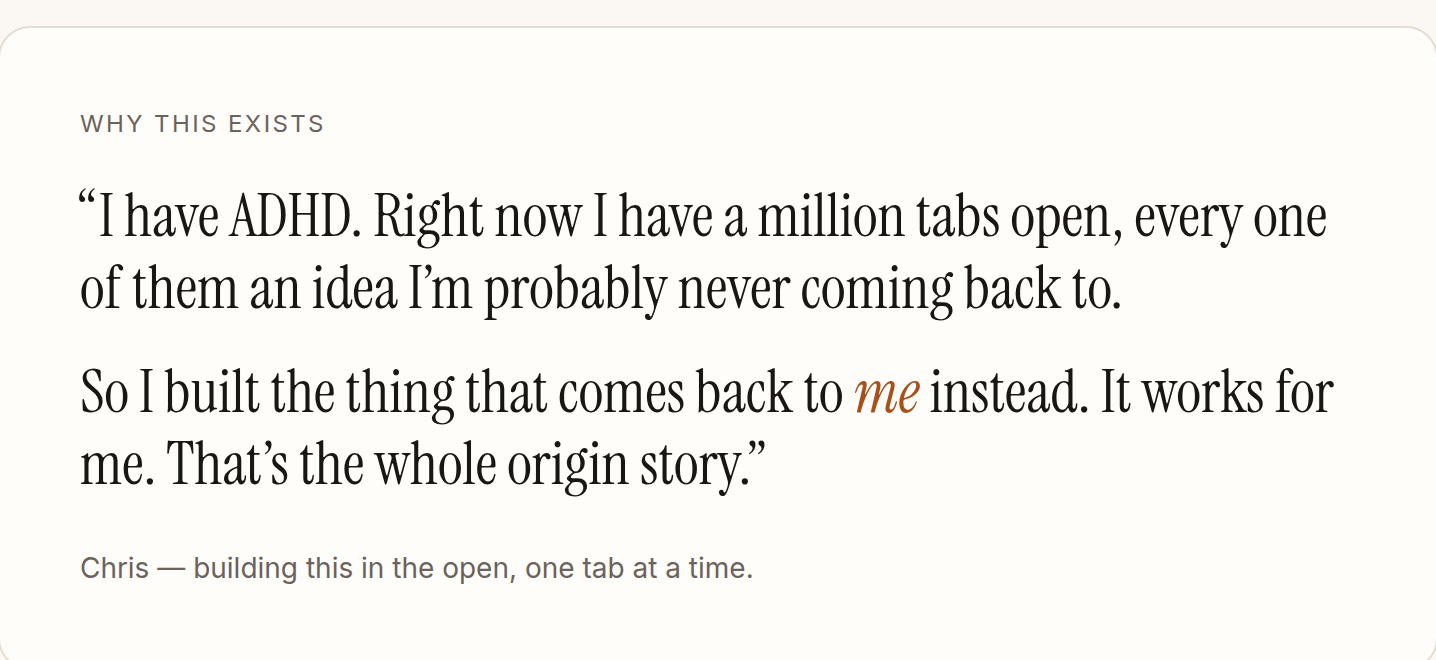
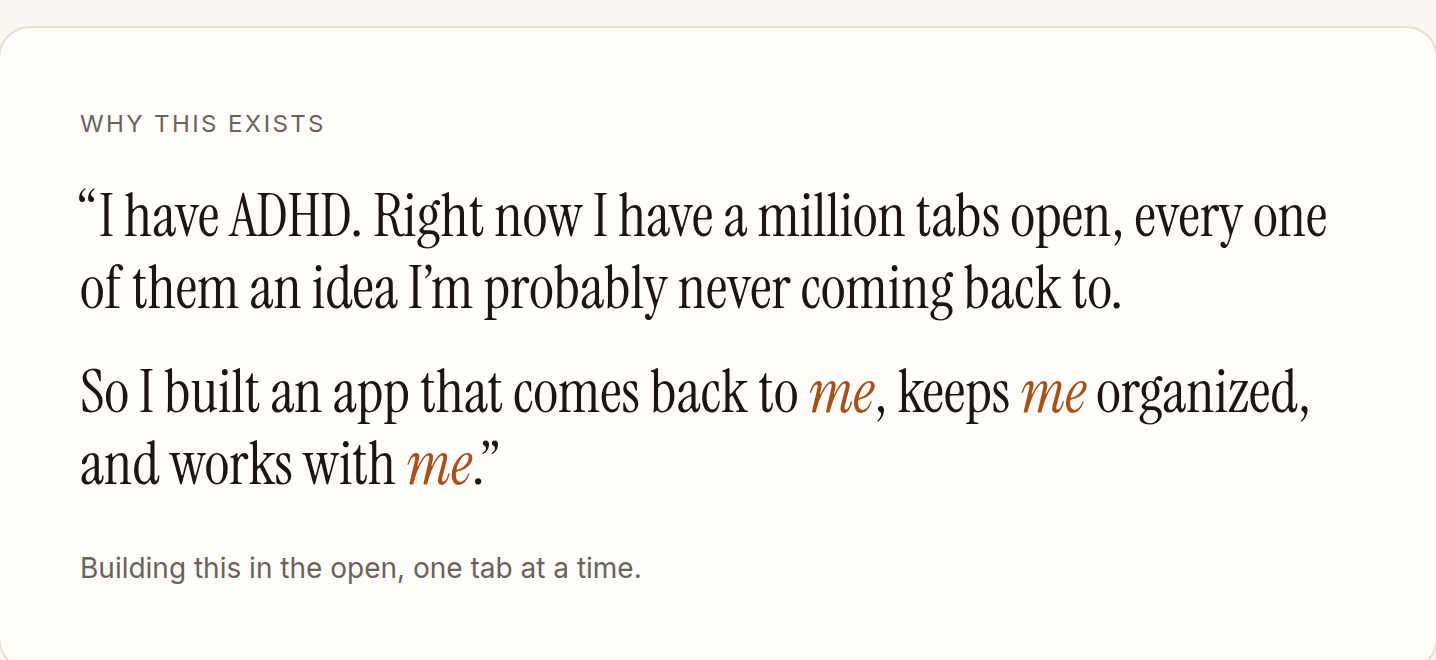
Use the founder's own words, drop the byline, restore the AI phrase
Founder quote is now his rewrite verbatim — "So I built an app that comes back
to me, keeps me organized, and works with me" — with each "me" marked
individually in clay so the rhythm of the three lands visually. Byline no longer
carries a name, at his request; it reads "Building this in the open, one tab at
a time."

Restores "once the AI has finished it." to the headline rotation. It was left
out earlier on the grounds that it promises execution rather than extraction.
That objection was right about the product as it stands and wrong about intent:
completing the task, a research task in particular, is the actual direction. It
is a stronger differentiator than the reminder loop, since neither competitor
attempts execution at all. Opened #14 for the decisions it forces — an agentic
run breaks the per-transform cost meter, does not fit the Transform table, and
needs a review step before anything is done on the user's behalf.

The phrase is aspirational and currently untrue, which promotes the beta framing
in #12 from a nice-to-have to a prerequisite before this page meets traffic.

"An ADHD tool, built by someone who needs it" stays as the hero eyebrow and now
also serves as the meta description and og:title, so it does SEO and
share-preview work without being repeated visually on the page.

Refs #8, #12, #14

Changed region(s): [[0.1838, 0.5455, 0.9499, 0.6364], [0.0306, 0.6667, 0.5515, 0.7576], [0.0613, 0.8485, 0.5209, 0.8788]]

diff --git a/apps/web/src/pages/LandingPage.tsx b/apps/web/src/pages/LandingPage.tsx
@@ -100,7 +100,7 @@ function Hero() {
                   'right before dinner.',
                   'when you can act on it.',
                   'the moment it matters.',
-                  'once it&rsquo;s broken into steps.',
+                  'once the AI has finished it.',
                 ]}
               />
             </span>
@@ -194,13 +194,13 @@ function FounderNote() {
           &ldquo;I have ADHD. Right now I have a million tabs open, every one of them an idea
           I&rsquo;m probably never coming back to.
           <span className="mt-4 block">
-            So I built the thing that comes back to <span className="italic text-clay">me</span>
-            &nbsp;instead. It works for me. That&rsquo;s the whole origin story.&rdquo;
+            So I built an app that comes back to{' '}
+            <span className="italic text-clay">me</span>, keeps{' '}
+            <span className="italic text-clay">me</span> organized, and works with{' '}
+            <span className="italic text-clay">me</span>.&rdquo;
           </span>
         </blockquote>
-        <p className="mt-6 text-sm text-muted">
-          Chris — building this in the open, one tab at a time.
-        </p>
+        <p className="mt-6 text-sm text-muted">Building this in the open, one tab at a time.</p>
       </div>
     </section>
   );

diff --git a/apps/web/index.html b/apps/web/index.html
@@ -4,7 +4,17 @@
     <meta charset="UTF-8" />
     <meta name="viewport" content="width=device-width, initial-scale=1.0" />
     <title>mind-dump</title>
-    <meta name="description" content="Get the thought out of your head. We turn it into tasks and bring it back when it matters." />
+    <meta
+      name="description"
+      content="An ADHD tool, built by someone who needs it. Dump the whole tangled mess in one go — it comes back to you as things you can actually do."
+    />
+    <meta property="og:title" content="mind-dump — An ADHD tool, built by someone who needs it" />
+    <meta
+      property="og:description"
+      content="Get it out of your head. We'll bring it back when you can act on it."
+    />
+    <meta property="og:type" content="website" />
+    <meta name="twitter:card" content="summary_large_image" />
     <link rel="preconnect" href="https://fonts.googleapis.com" />
     <link rel="preconnect" href="https://fonts.gstatic.com" crossorigin />
     <link
